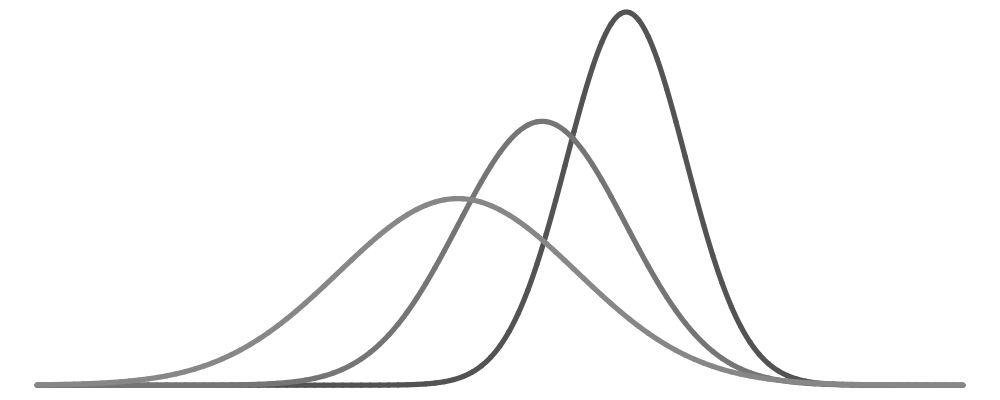
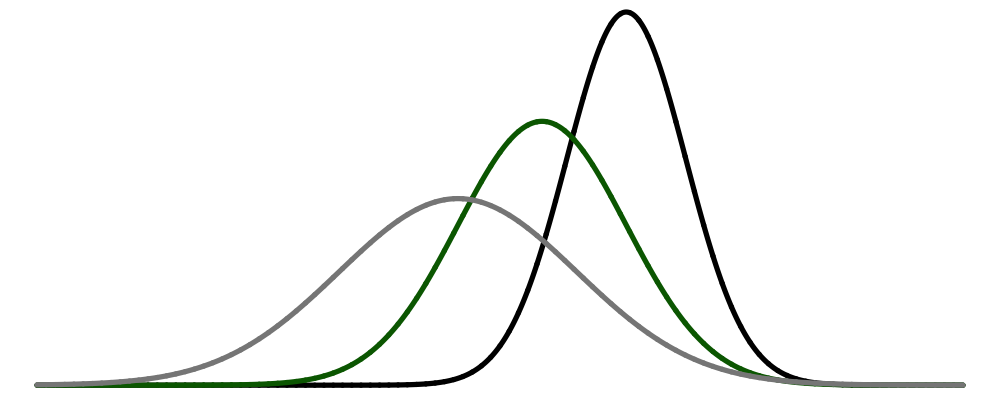
some font and color updates

diff --git a/public/index.html b/public/index.html
@@ -22,7 +22,7 @@
 <meta name="msapplication-config" content="icons/browserconfig.xml">
 <meta name="theme-color" content="#ffffff">
 <meta name="description" content="David Dalpiaz - Teaching Assistant Professor at the University of Illinois Urbana-Champaign (UIUC)">
-<link href="https://fonts.googleapis.com/css?family=Lato&display=swap" rel="stylesheet">
+<link href="https://fonts.googleapis.com/css?family=Lato:300,300i,400,400i,700&subset=latin-ext" rel="stylesheet">
 
 
 
@@ -62,7 +62,7 @@
 <p>Hello and welcome to my webzone!</p>
 <p>I am currently a <a href="https://stat.illinois.edu/directory/profile/dalpiaz2">Teaching Assistant Professor</a> for the <a href="https://stat.illinois.edu/">Department of Statistics</a> at the <a href="https://illinois.edu/">University of Illinois at Urbana-Champaign</a>.</p>
 <p>After a BS in <a href="https://math.illinois.edu/">Mathematics</a> at Illinois, I completed a PhD in Statistics at the Illinois with <a href="http://malab.uga.edu/">Ping Ma</a>. I then spent four years as a Visiting Assistant Professor, then Lecturer and MS Academic Advisor for Statistics @ Illinois.</p>
-<p>I recently spent a year as an <a href="https://stat.osu.edu/people/dalpiaz.14">Associated Assistant Professor</a> and <a href="https://data-analytics.osu.edu/">Data Analytics Program Specialist</a> for the <a href="https://stat.osu.edu/">Department of Statistics</a> at <a href="https://www.osu.edu/"><strong>The</strong> Ohio State University</a>. Go Bucks? While away from Illinois, I was an <a href="https://stat.illinois.edu/directory/profile/dalpiaz2">Adjunct Teaching Assistant Professor</a> for Statistics @ Illinois where my course <a href="http://stat420.org">Statistical Modeling in <code>R</code></a> is part of the online <a href="https://www.coursera.org/degrees/masters-in-computer-data-science">Master of Computer Science in Data Science</a>.</p>
+<p>I recently spent a year as an <a href="https://stat.osu.edu/people/dalpiaz.14">Associated Assistant Professor</a> and <a href="https://data-analytics.osu.edu/">Data Analytics Program Specialist</a> for the <a href="https://stat.osu.edu/">Department of Statistics</a> at <a href="https://www.osu.edu/"><strong>The</strong> Ohio State University</a>. Go Bucks? While away from Illinois, I was an <a href="https://stat.illinois.edu/directory/profile/dalpiaz2">Adjunct Teaching Assistant Professor</a> for Statistics @ Illinois where my course <a href="http://stat420.org">Statistical Modeling in R</a> is part of the online <a href="https://www.coursera.org/degrees/masters-in-computer-data-science">Master of Computer Science in Data Science</a>.</p>
 <p>But now I have returned to spend even more time at Illinois. Yes, I have spent a lot of time at UIUC. <a href="https://en.wikipedia.org/wiki/List_of_the_oldest_currently_registered_Internet_domain_names">I’m still mad they don’t use UIUC anymore.</a> Oh well. Go Illini!</p>
 <hr />
 <div id="contact" class="section level2">
@@ -99,13 +99,13 @@
 <h3>University of Illinois</h3>
 <ul>
 <li><strong>STAT 400:</strong> Statistics and Probability I [<a href="https://daviddalpiaz.github.io/stat400sp18/">Spring 2018</a>] [<a href="https://daviddalpiaz.github.io/stat400fa17/">Fall 2017</a>]</li>
-<li><strong>STAT 420:</strong> Statistical Modeling in <code>R</code> [<a href="https://www.coursera.org/learn/stat-420/">Summer 2017</a>]
+<li><strong>STAT 420:</strong> Statistical Modeling in R [<a href="https://www.coursera.org/learn/stat-420/">Summer 2017</a>]
 <ul>
-<li>Taught as part of the Master of <a href="https://cs.illinois.edu/">Computer Science</a> in Data Science program in collaboration with <a href="https://www.coursera.org/degrees/masters-in-computer-data-science">Coursera</a>. I currently maintain an open-source textbook, <a href="https://daviddalpiaz.github.io/appliedstats/">Applied Statistics with <code>R</code></a> for use with the course. Soon to partially be released as public MOOCs on the Coursera platform.</li>
+<li>Taught as part of the Master of <a href="https://cs.illinois.edu/">Computer Science</a> in Data Science program in collaboration with <a href="https://www.coursera.org/degrees/masters-in-computer-data-science">Coursera</a>. I currently maintain an open-source textbook, <a href="https://daviddalpiaz.github.io/appliedstats/">Applied Statistics with R</a> for use with the course. Soon to partially be released as public MOOCs on the Coursera platform.</li>
 </ul></li>
-<li><strong>STAT 432:</strong> Basics of Statistical Learning [<a href="http://stat432.org"><strong>Fall 2019</strong></a>] [<a href="https://daviddalpiaz.github.io/stat432sp18/">Spring 2018</a>] [<a href="https://daviddalpiaz.github.io/stat430fa17/">Fall 2017</a>]
+<li><strong>STAT 432:</strong> Basics of Statistical Learning [<a href="http://stat432.org/fall-2019"><strong>Fall 2019</strong></a>] [<a href="https://daviddalpiaz.github.io/stat432sp18/">Spring 2018</a>] [<a href="https://daviddalpiaz.github.io/stat430fa17/">Fall 2017</a>]
 <ul>
-<li>Covers the entirety of <a href="http://www-bcf.usc.edu/~gareth/ISL/">An Introduction to Statistical Learning with Applications in <code>R</code></a>. I currently maintain an open-source supplemental textbook, <a href="https://daviddalpiaz.github.io/r4sl/"><code>R</code> for Statistical Learning</a> which focuses on using <code>R</code> to perform statistical learning techniques.</li>
+<li>Covers the entirety of <a href="http://www-bcf.usc.edu/~gareth/ISL/">An Introduction to Statistical Learning with Applications in R</a>. I currently maintain an open-source supplemental textbook, <a href="https://daviddalpiaz.github.io/r4sl/">R for Statistical Learning</a> which focuses on using R to perform statistical learning techniques.</li>
 </ul></li>
 </ul>
 </div>
@@ -122,13 +122,13 @@
 <h2>Writing</h2>
 <hr />
 <ul>
-<li><a href="https://daviddalpiaz.github.io/appliedstats/">Applied Statistics with <code>R</code></a>
+<li><a href="https://daviddalpiaz.github.io/appliedstats/">Applied Statistics with R</a>
 <ul>
-<li>Still a work in progress, but the content coverage is more or less solidified. Provides an introduction to both <code>R</code> and regression modeling for students with undergraduate experience in probability and statistics. Currently in use for <a href="https://courses.illinois.edu/schedule/2018/spring/STAT/420">STAT 420</a> both in-person and online at <a href="http://illinois.edu/">UIUC</a> for the Departments of <a href="http://www.stat.illinois.edu/">Statistics</a> and <a href="https://cs.illinois.edu/">Computer Science</a>.</li>
+<li>Still a work in progress, but the content coverage is more or less solidified. Provides an introduction to both R and regression modeling for students with undergraduate experience in probability and statistics. Currently in use for <a href="https://courses.illinois.edu/schedule/2018/spring/STAT/420">STAT 420</a> both in-person and online at <a href="http://illinois.edu/">UIUC</a> for the Departments of <a href="http://www.stat.illinois.edu/">Statistics</a> and <a href="https://cs.illinois.edu/">Computer Science</a>.</li>
 </ul></li>
-<li><a href="https://daviddalpiaz.github.io/r4sl/"><code>R</code> for Statistical Learning</a>
+<li><a href="https://daviddalpiaz.github.io/r4sl/">R for Statistical Learning</a>
 <ul>
-<li>Currently undergoing considerable changes and developments. Originally intended to be supplemental notes to <a href="http://www-bcf.usc.edu/~gareth/ISL/">ISL</a> in order to provide additional <code>R</code> code and <code>rmarkdown</code> examples, the text is starting to become a complete reference text for <a href="http://stat432.org">STAT 432 - Basics of Statistical Learning</a> at <a href="http://illinois.edu/">UIUC</a> for the Departments of <a href="http://www.stat.illinois.edu/">Statistics</a>. Target audience is advanced undergraduate students in statistics with previous experience with <code>R</code> and regression.</li>
+<li>Currently undergoing considerable changes and developments. Originally intended to be supplemental notes to <a href="http://www-bcf.usc.edu/~gareth/ISL/">ISL</a> in order to provide additional R code and R Markdown examples, the text is starting to become a complete reference text for <a href="http://stat432.org">STAT 432 - Basics of Statistical Learning</a> at <a href="http://illinois.edu/">UIUC</a> for the Departments of <a href="http://www.stat.illinois.edu/">Statistics</a>. Target audience is advanced undergraduate students in statistics with previous experience with R and regression.</li>
 </ul></li>
 </ul>
 <hr />

diff --git a/public/header.html b/public/header.html
@@ -6,4 +6,4 @@
 <meta name="msapplication-config" content="icons/browserconfig.xml">
 <meta name="theme-color" content="#ffffff">
 <meta name="description" content="David Dalpiaz - Teaching Assistant Professor at the University of Illinois Urbana-Champaign (UIUC)">
-<link href="https://fonts.googleapis.com/css?family=Lato&display=swap" rel="stylesheet">
+<link href="https://fonts.googleapis.com/css?family=Lato:300,300i,400,400i,700&subset=latin-ext" rel="stylesheet">

diff --git a/public/style.css b/public/style.css
@@ -19,6 +19,7 @@ body {
   display: block;
   padding-right: 20px;
   padding-left: 20px;
+  font-weight: 300;
 }
 
 img {
@@ -33,22 +34,21 @@ img {
 }
 
 p, li, h1, h2, h3 {
-  color: #ffffff;
+  color: #000000;
   font-family: 'Lato', sans-serif;
 }
 
 a {
-  color: #888888;
+  color: #006600;
   text-decoration: none;
 }
 
 a:hover {
-  color: #ffffff;
   text-decoration: underline;
 }
 
 body {
-  background: #111111;
+  background: #ffffff;
 }
 
 h1.realtitle {
